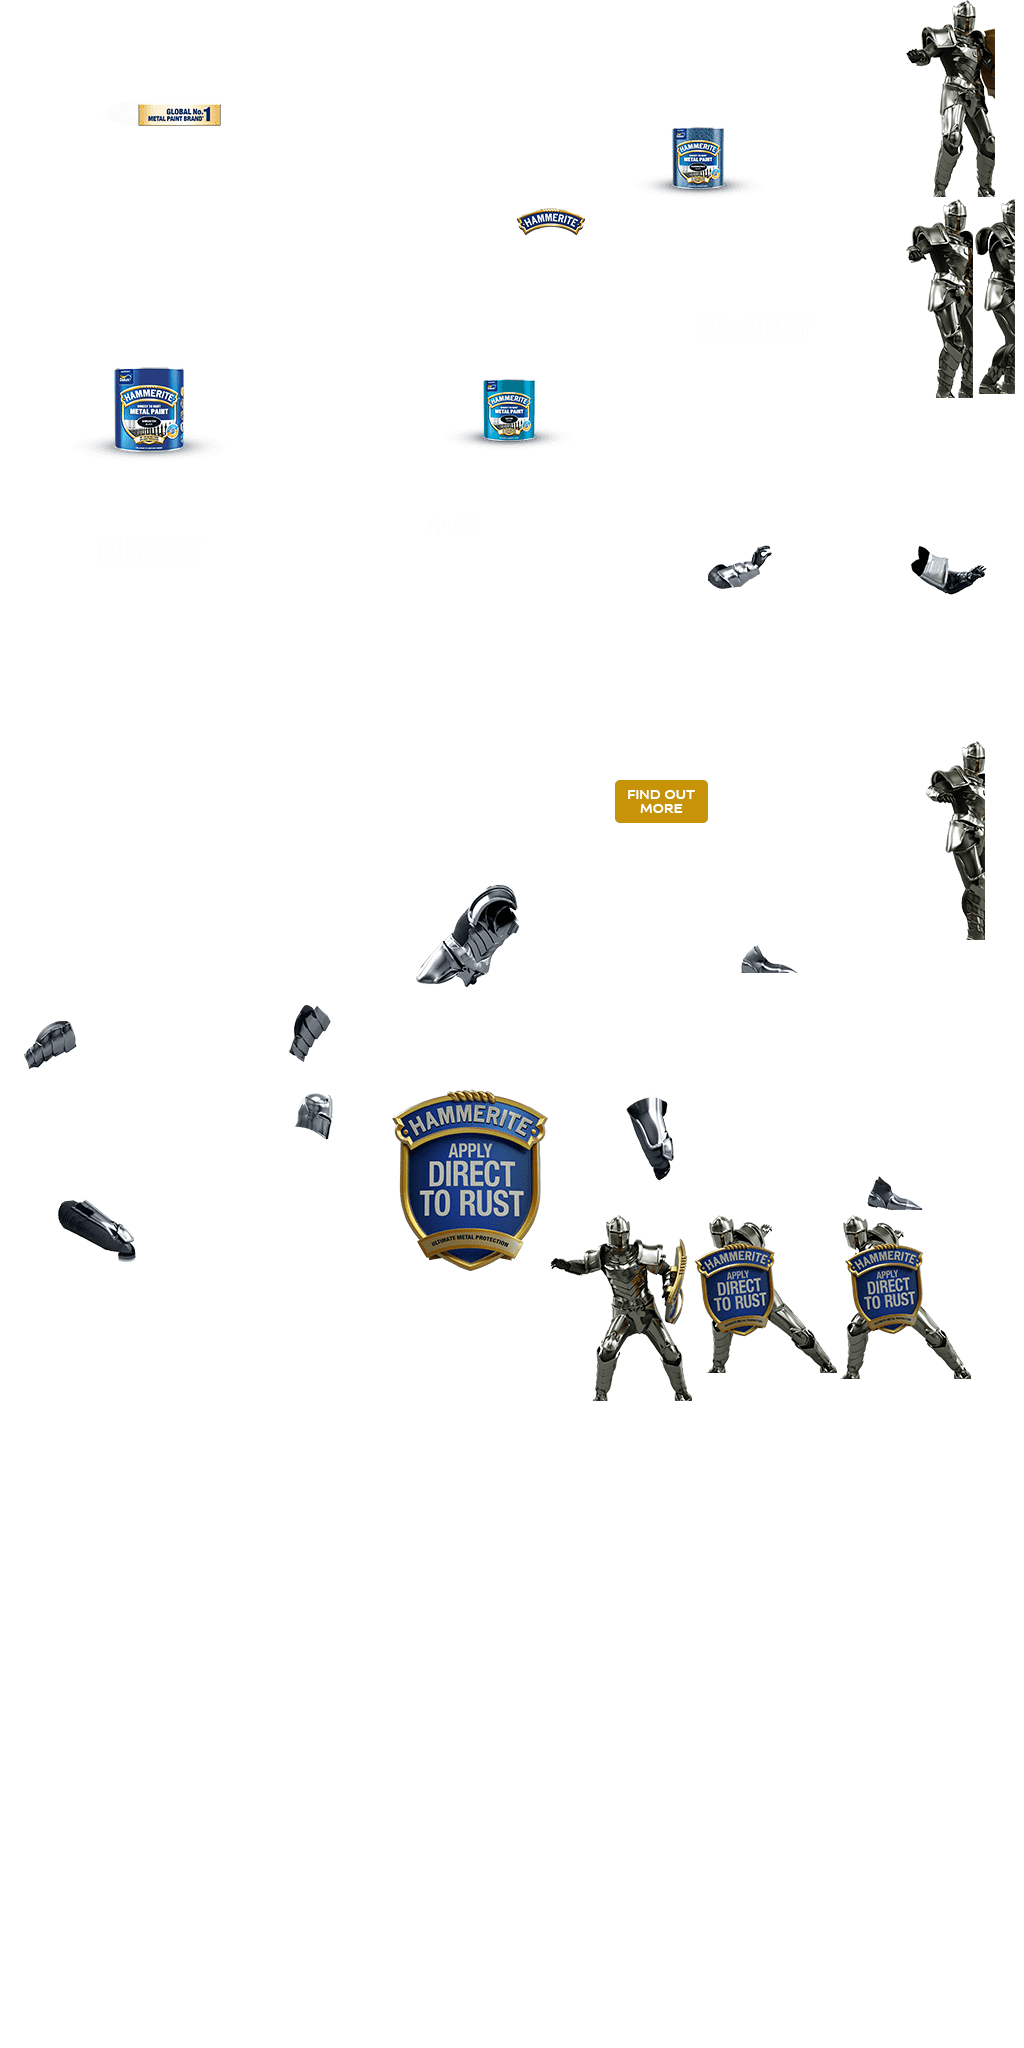
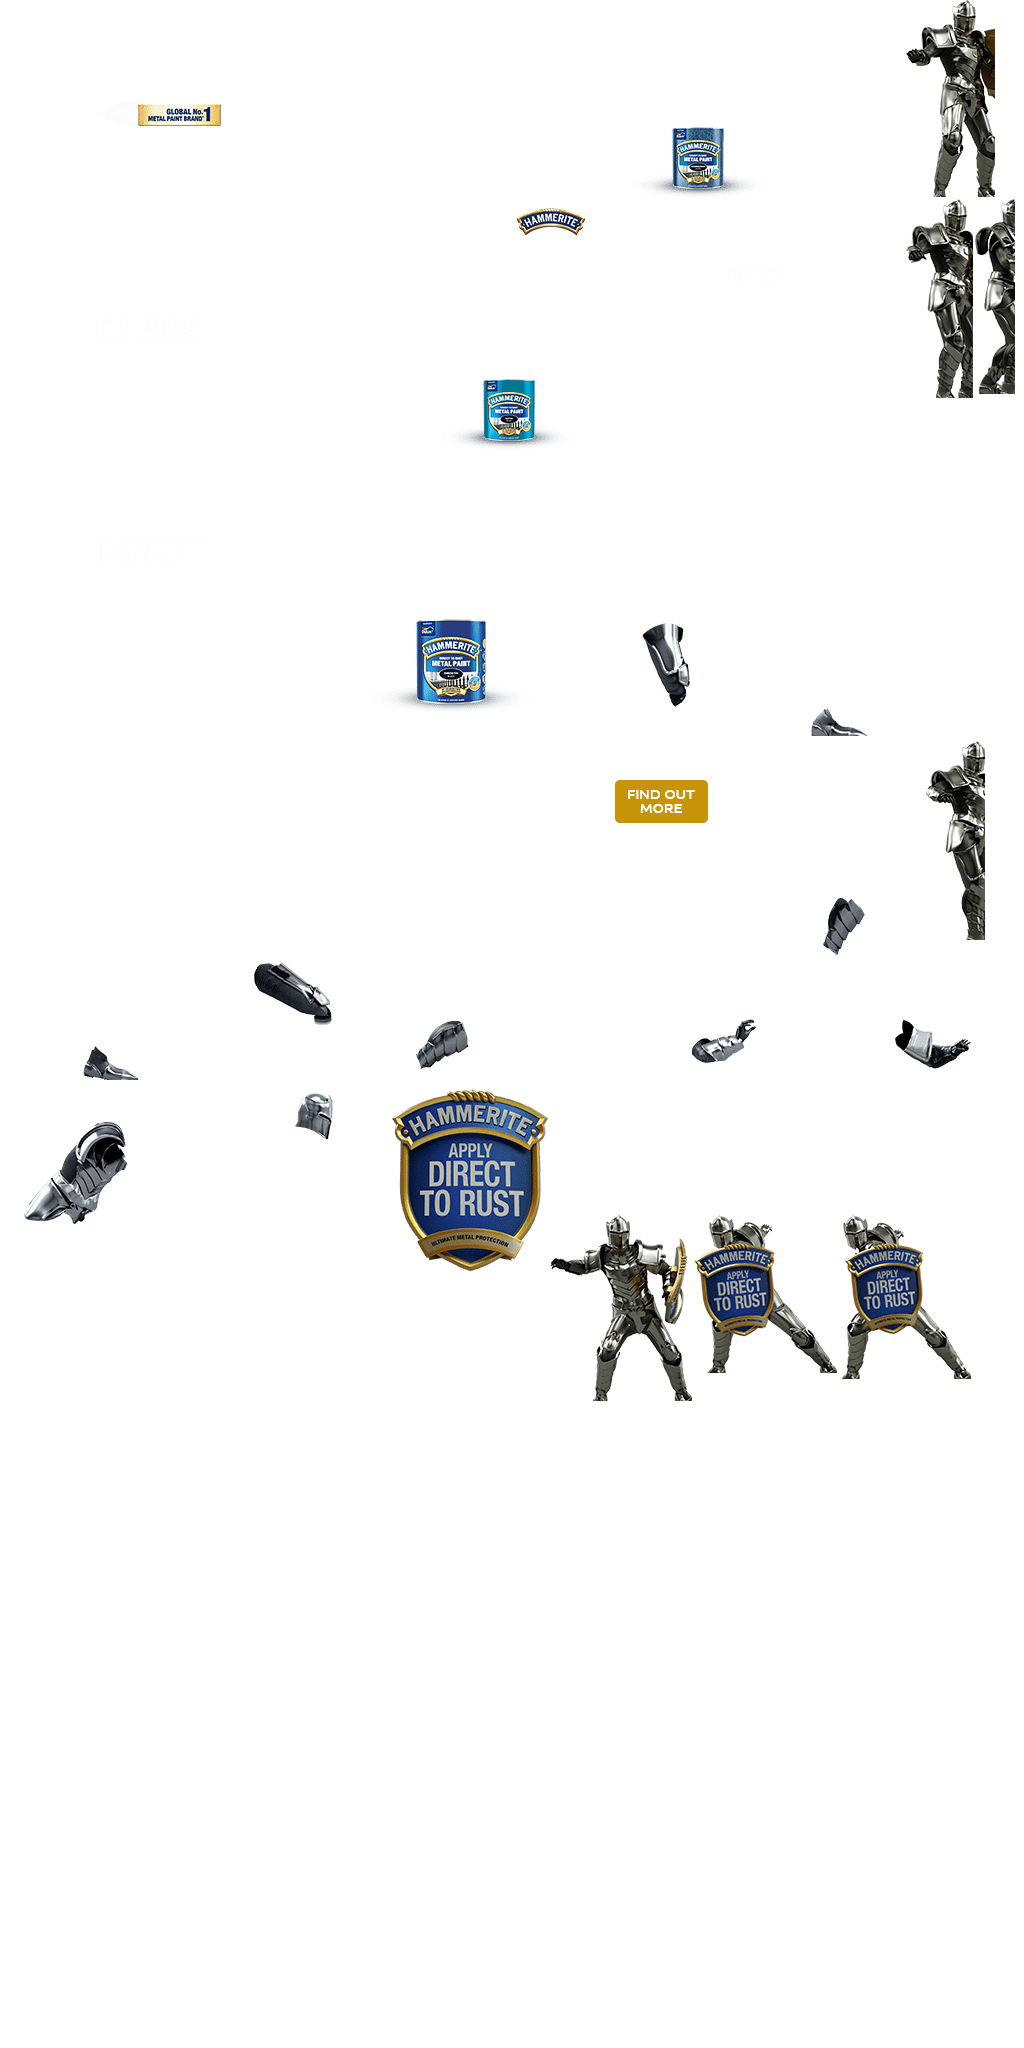
.
.

diff --git a/ADTR_v2/728x90/181208-adtr-728x90_v2.js b/ADTR_v2/728x90/181208-adtr-728x90_v2.js
@@ -3,7 +3,7 @@
 var p; // shortcut to reference prototypes
 var lib={};var ss={};var img={};
 lib.ssMetadata = [
-		{name:"181208_adtr_728x90_atlas_P_", frames: [[975,199,40,195],[926,741,59,199],[906,199,67,199],[906,0,89,197],[550,1215,142,186],[839,1215,132,164],[694,1215,143,158],[604,504,194,235],[800,504,194,235],[392,848,194,235],[0,756,728,90],[196,1085,194,235],[0,0,300,250],[588,978,194,235],[0,848,194,235],[730,741,194,235],[196,848,194,235],[784,978,194,235],[0,1085,194,235],[302,0,300,250],[604,0,300,250],[0,252,300,250],[302,252,300,250],[392,1085,156,200],[302,504,300,250],[0,504,300,250],[604,252,300,250]]},
+		{name:"181208_adtr_728x90_atlas_P_", frames: [[975,199,40,195],[926,741,59,199],[906,199,67,199],[906,0,89,197],[550,1215,142,186],[839,1215,132,164],[694,1215,143,158],[588,978,194,235],[784,978,194,235],[0,1085,194,235],[0,756,728,90],[196,1085,194,235],[0,0,300,250],[604,504,194,235],[392,848,194,235],[800,504,194,235],[730,741,194,235],[0,848,194,235],[196,848,194,235],[302,0,300,250],[604,0,300,250],[302,504,300,250],[302,252,300,250],[392,1085,156,200],[604,252,300,250],[0,504,300,250],[0,252,300,250]]},
 		{name:"181208_adtr_728x90_atlas_NP_", frames: [[0,252,443,145],[0,0,300,250]]}
 ];
 
@@ -483,11 +483,11 @@ p.nominalBounds = new cjs.Rectangle(0,0,194,235);
 	// Layer_1
 	this.shape = new cjs.Shape();
 	this.shape.graphics.lf(["rgba(255,231,169,0)","#FFE7A9","rgba(255,231,169,0)"],[0,0.498,1],-21.3,0,21.4,0).s().dr(-21.4,-30.4,42.8,60.8);
-	this.shape.setTransform(58.9745,37.1149,1,1,33.2289);
+	this.shape.setTransform(45.0245,37.1149,1,1,33.2289);
 
 	this.timeline.addTween(cjs.Tween.get(this.shape).wait(1));
 
-}).prototype = getMCSymbolPrototype(lib.Symbol35, new cjs.Rectangle(24.5,0,69,74.2), null);
+}).prototype = getMCSymbolPrototype(lib.Symbol35, new cjs.Rectangle(10.5,0,69.1,74.2), null);
 
 
 (lib.Symbol32 = function(mode,startPosition,loop) {
@@ -525,6 +525,19 @@ p.nominalBounds = new cjs.Rectangle(0,0,194,235);
 	this.timeline.addTween(cjs.Tween.get(this.instance).wait(1));
 
 }).prototype = getMCSymbolPrototype(lib.Symbol13, new cjs.Rectangle(-490,92,882,109.1), null);
+
+
+(lib.Symbol9 = function(mode,startPosition,loop) {
+	this.initialize(mode,startPosition,loop,{});
+
+	// Layer_1
+	this.shape = new cjs.Shape();
+	this.shape.graphics.rf(["#4C8EBF","#4A8BBC","#3C7BAB","#0D4370","#053966","#003461"],[0,0.208,0.443,0.855,0.925,1],0,18.1,0,0,18.1,105.3).s().p("A3bTiMAAAgnDMAu3AAAMAAAAnDg");
+	this.shape.setTransform(150,125);
+
+	this.timeline.addTween(cjs.Tween.get(this.shape).wait(1));
+
+}).prototype = getMCSymbolPrototype(lib.Symbol9, new cjs.Rectangle(0,0,300,250), null);
 
 
 (lib.Symbol2 = function(mode,startPosition,loop) {
@@ -753,9 +766,9 @@ p.nominalBounds = new cjs.Rectangle(-0.1,-2.9,196.2,238.6);
 	// m (mask)
 	var mask = new cjs.Shape();
 	mask._off = true;
-	var mask_graphics_49 = new cjs.Graphics().p("AB8lMQgmAAAAhRIAAleQAAhRAmAAIQ0AAQAmAAAABRIAAFeQAABRgmAAg");
+	var mask_graphics_49 = new cjs.Graphics().p("AgMlSQglAAgBhRIAAleQABhRAlAAIQzAAQAmAAAABRIAAFeQAABRgmAAg");
 
-	this.timeline.addTween(cjs.Tween.get(mask).to({graphics:null,x:0,y:0}).wait(49).to({graphics:mask_graphics_49,x:123.7499,y:-84.484}).wait(57));
+	this.timeline.addTween(cjs.Tween.get(mask).to({graphics:null,x:0,y:0}).wait(49).to({graphics:mask_graphics_49,x:110.0999,y:-85.084}).wait(57));
 
 	// light
 	this.instance = new lib.Symbol35();
@@ -774,15 +787,16 @@ p.nominalBounds = new cjs.Rectangle(-0.1,-2.9,196.2,238.6);
 	// cta.png
 	this.instance_1 = new lib.Symbol13();
 	this.instance_1.parent = this;
-	this.instance_1.setTransform(222.25,-67.5,1,1,0,0,0,214.7,223);
+	this.instance_1.setTransform(67.7,0.15,1,1,0,0,0,214.7,223);
+	this.instance_1.alpha = 0;
 	this.instance_1._off = true;
 
-	this.timeline.addTween(cjs.Tween.get(this.instance_1).wait(30).to({_off:false},0).to({x:94.1},12,cjs.Ease.backOut).wait(64));
+	this.timeline.addTween(cjs.Tween.get(this.instance_1).wait(30).to({_off:false},0).to({x:64.7,y:-68.1,alpha:1},12,cjs.Ease.backOut).wait(64));
 
 	// Layer_5
 	this.instance_2 = new lib.Symbol58("synched",0,false);
 	this.instance_2.parent = this;
-	this.instance_2.setTransform(-126.8,159.2,1,1,0,0,0,73.1,30.7);
+	this.instance_2.setTransform(-83.6,159.2,1,1,0,0,0,73.1,30.7);
 	this.instance_2._off = true;
 
 	this.timeline.addTween(cjs.Tween.get(this.instance_2).wait(5).to({_off:false},0).wait(101));
@@ -877,7 +891,7 @@ p.nominalBounds = new cjs.Rectangle(-0.1,-2.9,196.2,238.6);
 	this.timeline.addTween(cjs.Tween.get(this.instance_6).wait(2).to({_off:false},0).wait(4).to({x:0,alpha:1},16,cjs.Ease.quartOut).wait(84));
 
 }).prototype = p = new cjs.MovieClip();
-p.nominalBounds = new cjs.Rectangle(-623.4,-315.2,1022.9,364.7);
+p.nominalBounds = new cjs.Rectangle(-640.3,-315.2,885.3,364.7);
 
 
 (lib.Symbol38 = function(mode,startPosition,loop) {
@@ -1165,18 +1179,25 @@ p.nominalBounds = new cjs.Rectangle(-398.7,-174,856.7,434.5);
 	// Layer_5
 	this.instance_1 = new lib.Symbol71("synched",0,false);
 	this.instance_1.parent = this;
-	this.instance_1.setTransform(555.7,207.25,0.815,0.815,0,0,0,50.1,51);
+	this.instance_1.setTransform(531.7,207.25,0.815,0.815,0,0,0,50.1,51);
 
-	this.timeline.addTween(cjs.Tween.get(this.instance_1).wait(172).to({mode:"single",startPosition:105},0).to({x:419.85},10,cjs.Ease.get(-1)).wait(115));
+	this.timeline.addTween(cjs.Tween.get(this.instance_1).wait(172).to({mode:"single",startPosition:105},0).to({x:403.85},10,cjs.Ease.get(-1)).wait(115));
+
+	// Layer_2
+	this.instance_2 = new lib.Symbol9();
+	this.instance_2.parent = this;
+	this.instance_2.setTransform(489.5,33.75,1,1,0,0,0,150,125);
+
+	this.timeline.addTween(cjs.Tween.get(this.instance_2).wait(172).to({x:363.9},10,cjs.Ease.get(-1)).wait(115));
 
 	// Layer_9
-	this.instance_2 = new lib.Symbol57("synched",0);
-	this.instance_2.parent = this;
-	this.instance_2.setTransform(150,300,1,1,0,0,0,150,300);
-	this.instance_2.alpha = 0;
-	this.instance_2._off = true;
+	this.instance_3 = new lib.Symbol57("synched",0);
+	this.instance_3.parent = this;
+	this.instance_3.setTransform(150,300,1,1,0,0,0,150,300);
+	this.instance_3.alpha = 0;
+	this.instance_3._off = true;
 
-	this.timeline.addTween(cjs.Tween.get(this.instance_2).wait(169).to({_off:false},0).to({alpha:1},9).wait(119));
+	this.timeline.addTween(cjs.Tween.get(this.instance_3).wait(169).to({_off:false},0).to({alpha:1},9).wait(119));
 
 	// Layer_4 (mask)
 	var mask = new cjs.Shape();
@@ -1185,23 +1206,10 @@ p.nominalBounds = new cjs.Rectangle(-398.7,-174,856.7,434.5);
 	mask.setTransform(120.7,126.1);
 
 	// Layer_8
-	this.instance_3 = new lib.Symbol40("synched",0,false);
-	this.instance_3.parent = this;
-	this.instance_3.setTransform(222.4,71.25,0.994,0.994,0,0,0,20.5,85.5);
-	this.instance_3._off = true;
-
-	var maskedShapeInstanceList = [this.instance_3];
-
-	for(var shapedInstanceItr = 0; shapedInstanceItr < maskedShapeInstanceList.length; shapedInstanceItr++) {
-		maskedShapeInstanceList[shapedInstanceItr].mask = mask;
-	}
-
-	this.timeline.addTween(cjs.Tween.get(this.instance_3).wait(110).to({_off:false},0).wait(187));
-
-	// Layer_1
-	this.instance_4 = new lib.Symbol55("synched",0,false);
+	this.instance_4 = new lib.Symbol40("synched",0,false);
 	this.instance_4.parent = this;
-	this.instance_4.setTransform(168.15,96.9,0.8052,0.8052,0,0,0,58.3,39.5);
+	this.instance_4.setTransform(222.4,71.25,0.994,0.994,0,0,0,20.5,85.5);
+	this.instance_4._off = true;
 
 	var maskedShapeInstanceList = [this.instance_4];
 
@@ -1209,17 +1217,30 @@ p.nominalBounds = new cjs.Rectangle(-398.7,-174,856.7,434.5);
 		maskedShapeInstanceList[shapedInstanceItr].mask = mask;
 	}
 
-	this.timeline.addTween(cjs.Tween.get(this.instance_4).wait(297));
+	this.timeline.addTween(cjs.Tween.get(this.instance_4).wait(110).to({_off:false},0).wait(187));
 
-	// Layer_10
-	this.instance_5 = new lib.Symbol57("synched",0);
+	// Layer_1
+	this.instance_5 = new lib.Symbol55("synched",0,false);
 	this.instance_5.parent = this;
-	this.instance_5.setTransform(150,300,1,1,0,0,0,150,300);
+	this.instance_5.setTransform(168.15,96.9,0.8052,0.8052,0,0,0,58.3,39.5);
+
+	var maskedShapeInstanceList = [this.instance_5];
+
+	for(var shapedInstanceItr = 0; shapedInstanceItr < maskedShapeInstanceList.length; shapedInstanceItr++) {
+		maskedShapeInstanceList[shapedInstanceItr].mask = mask;
+	}
 
 	this.timeline.addTween(cjs.Tween.get(this.instance_5).wait(297));
 
+	// Layer_10
+	this.instance_6 = new lib.Symbol57("synched",0);
+	this.instance_6.parent = this;
+	this.instance_6.setTransform(150,300,1,1,0,0,0,150,300);
+
+	this.timeline.addTween(cjs.Tween.get(this.instance_6).wait(297));
+
 }).prototype = p = new cjs.MovieClip();
-p.nominalBounds = new cjs.Rectangle(245.4,-46.2,595,297.4);
+p.nominalBounds = new cjs.Rectangle(205.4,-46.2,523.6,297.4);
 // library properties:
 lib.properties = {
 	id: 'D989D54A625F9644B2784B6617044FF1',

diff --git a/ADTR_v2/728x90/index.html b/ADTR_v2/728x90/index.html
@@ -9,7 +9,7 @@
 <script src="https://code.createjs.com/createjs-2015.11.26.min.js"></script> -->
 <script src="https://s0.2mdn.net/ads/studio/cached_libs/createjs_2015.11.26_54e1c3722102182bb133912ad4442e19_min.js"></script>
 <!-- write your code here -->
-<script src="181208-adtr-728x90.js"></script>
+<script src="181208-adtr-728x90_v2.js"></script>
 <script>
 var canvas, stage, exportRoot, anim_container, dom_overlay_container, fnStartAnimation;
 function init() {
